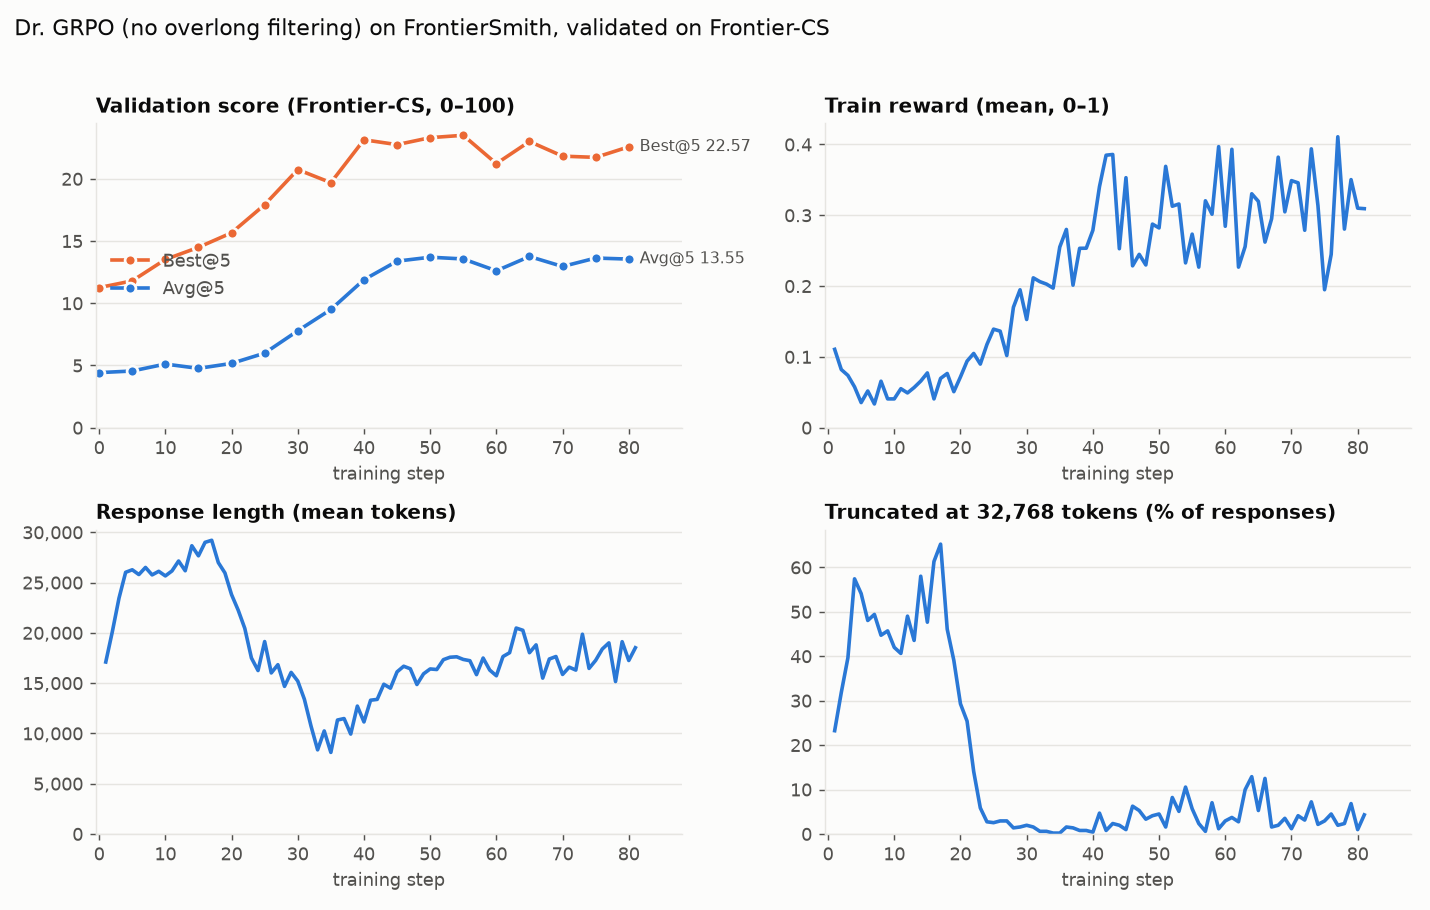
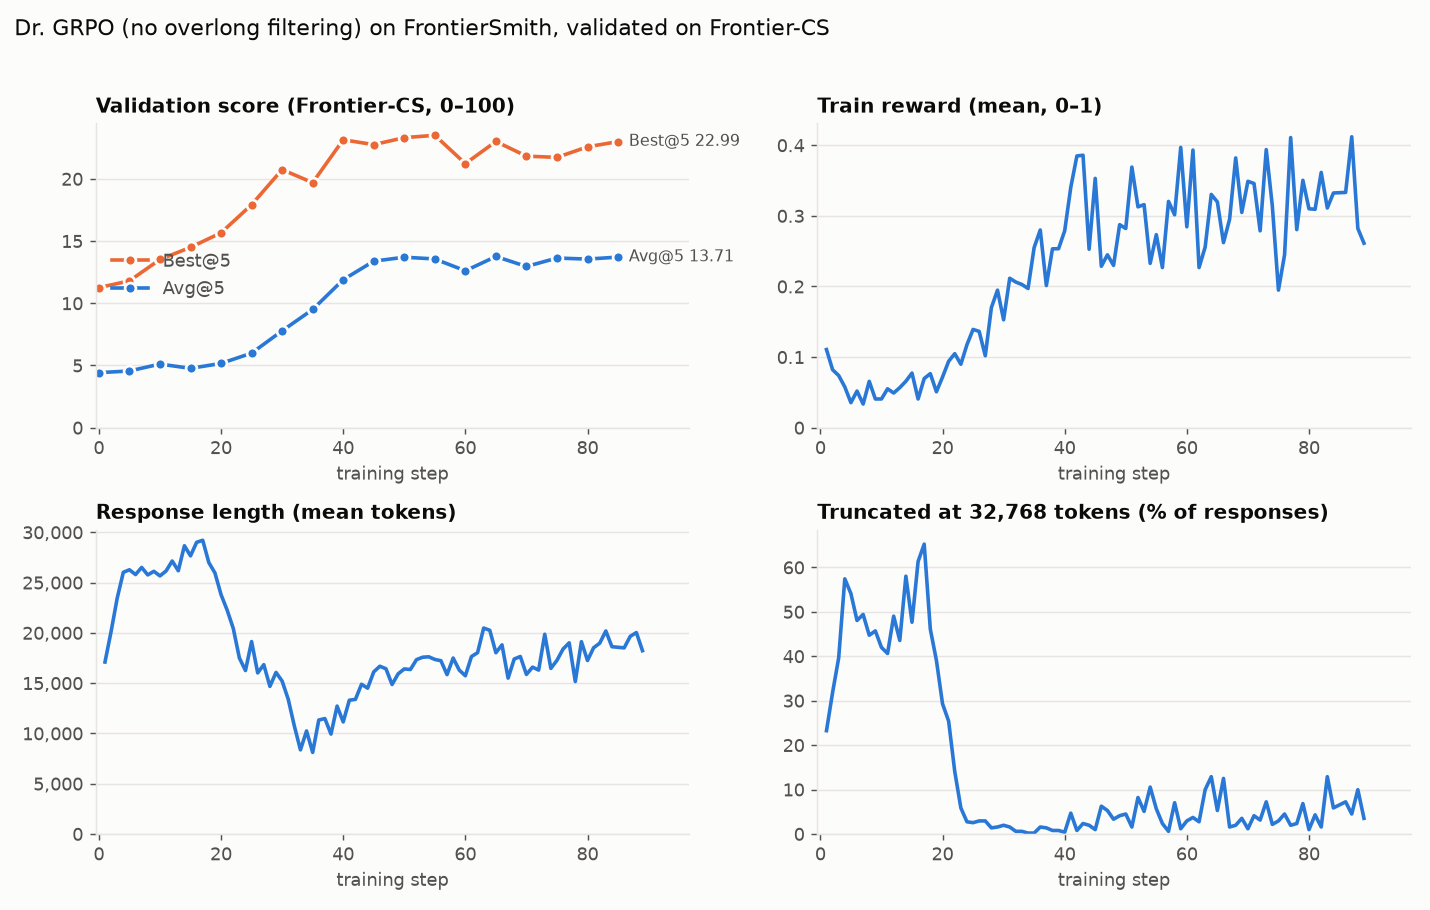
results: Dr. GRPO validation through step 89

diff --git a/results/frontiercs_dr_grpo/README.md b/results/frontiercs_dr_grpo/README.md
@@ -5,7 +5,7 @@ A Dr. GRPO baseline for the FrontierSmith/Frontier-CS setting of this branch, ru
 filtering, as in the Dr. GRPO paper ([Liu et al., 2025](https://arxiv.org/abs/2503.20783)).
 
 <!-- status:begin -->
-**Status: in progress** — step 81/240, last validation at step 80; about 27 h left (7.9 min per step over the last 5 steps, 12 min per validation), finishing around Nov 11 15:31 PT. The tables and curves are updated at every validation (every 5 steps).
+**Status: in progress** — step 89/240, last validation at step 85; about 29 h left (9.3 min per step over the last 5 steps, 12 min per validation), finishing around Nov 11 20:54 PT. The tables and curves are updated at every validation (every 5 steps).
 <!-- status:end -->
 
 ## Setup
@@ -65,6 +65,7 @@ bootstrap estimate and comes out lower; it is kept in `val_curve.csv` as `verl_b
 | 70 | 12.96 | 21.82 | 0.349 | 15,863 | 1.2% |
 | 75 | 13.64 | 21.73 | 0.195 | 17,268 | 2.9% |
 | 80 | 13.55 | 22.57 | 0.310 | 17,251 | 1.0% |
+| 85 | 13.71 | 22.99 | — | — | — |
 <!-- results:end -->
 
 ![Validation and training curves](curves.png)
